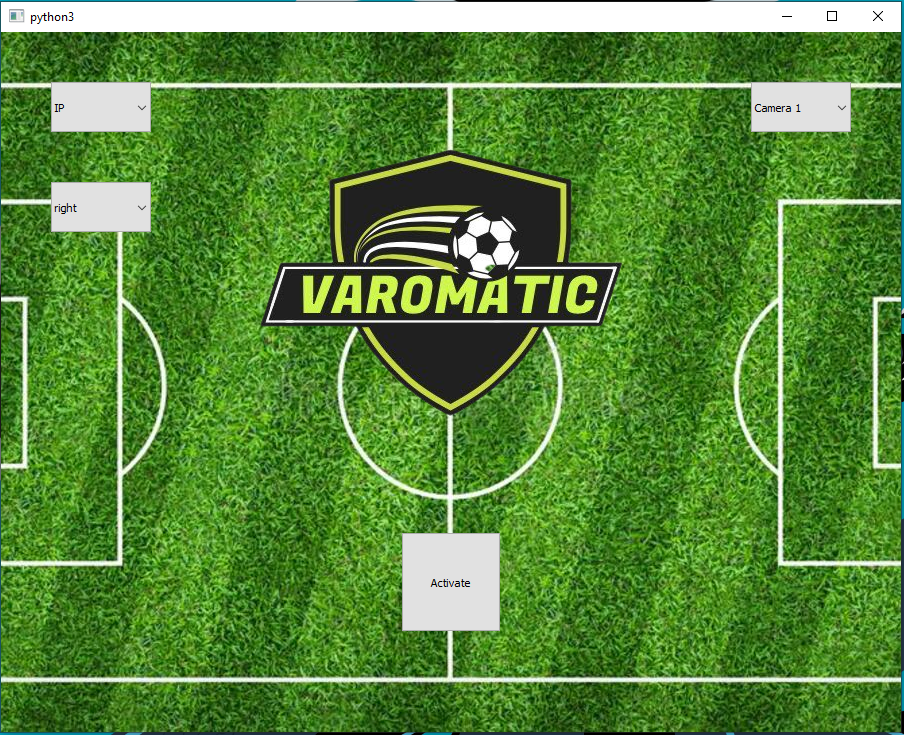
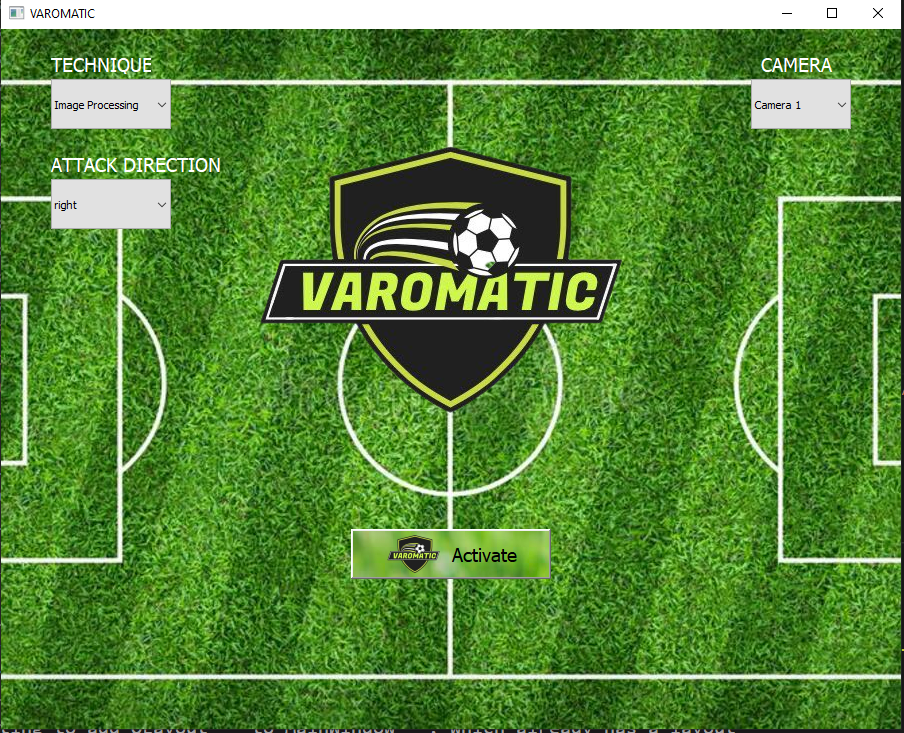
changed background and added labels

diff --git a/app.py b/app.py
@@ -1,5 +1,6 @@
 from PyQt5.QtWidgets import *
-from PyQt5.QtGui import QPixmap
+from PyQt5.QtGui import QPixmap, QIcon
+from PyQt5 import QtCore
 import PyQt5.sip
 import sys
 sys.path.insert(1, 'D:/UNI STUFF/Fourth year comp/sem 2/GGP/VAROMATIC-APP/lib/offside_modules')
@@ -23,27 +24,62 @@ class MainWindow(QMainWindow):
             else:
                return GoalLineProcess('rec')
         
+        self.label_name = QLabel('CAMERA', self)
+        self.label_name.setStyleSheet("""QLabel{
+        color: white;
+        font: 14pt;
+        text-align:center;
+        }""")
+        self.label_name.setFixedSize(100,20)
+        self.label_name.move(760,25)
+
         self.Qcombo = QComboBox(self)
         self.Qcombo.addItem("Camera 1")
         self.Qcombo.addItem("Camera 2")
         self.Qcombo.setFixedSize(100,50)
         self.Qcombo.move(750,50)
 
+        self.label_name = QLabel('TECHNIQUE', self)
+        self.label_name.setStyleSheet("""QLabel{
+        color: white;
+        font: 14pt;
+        text-align:center;
+        }""")
+        self.label_name.setFixedSize(100,20)
+        self.label_name.move(50,25)
+
         self.Qcombo2 = QComboBox(self)
-        self.Qcombo2.addItem("IP")
+        self.Qcombo2.addItem("Image Processing")
         self.Qcombo2.addItem("YOLO")
-        self.Qcombo2.setFixedSize(100,50)
+        self.Qcombo2.setFixedSize(120,50)
         self.Qcombo2.move(50,50)
+
+        self.label_name = QLabel('ATTACK DIRECTION', self)
+        self.label_name.setStyleSheet("""QLabel{
+        color: white;
+        font: 14pt;
+        text-align:center;
+        }""")
+        self.label_name.setFixedSize(200,20)
+        self.label_name.move(50,125)
 
         self.Qcombo3 = QComboBox(self)
         self.Qcombo3.addItem("right")
         self.Qcombo3.addItem("left")
-        self.Qcombo3.setFixedSize(100,50)
+        self.Qcombo3.setFixedSize(120,50)
         self.Qcombo3.move(50,150)
         
         self.pushButton = QPushButton("Activate",self)
-        self.pushButton.setFixedSize(100,100)
-        self.pushButton.move(400,500)
+        self.pushButton.setFixedSize(200,50)
+        self.pushButton.move(350,500)   
+        self.pushButton.clicked.connect(activate)
+        self.pushButton.setIcon(QIcon('assets/logobg.jpg'))
+        self.pushButton.setIconSize(QtCore.QSize(64, 64))
+        self.pushButton.setStyleSheet("""QPushButton{
+        font: 14pt;
+        text-align:center;
+        background-image:url("D:/UNI STUFF/Fourth year comp/sem 2/GGP/VAROMATIC-APP/assets/grass.jpg");
+        }""")
 
         label = QLabel(self)
         pixmap = QPixmap('assets/logobg.jpg')
@@ -51,7 +87,6 @@ class MainWindow(QMainWindow):
         label.setFixedHeight(500)
         label.setFixedWidth(500)
         label.move(235,0)
-        self.pushButton.clicked.connect(activate)
         lay = QHBoxLayout(self)
         lay.addWidget(self.pushButton)
         lay.addWidget(self.pushButton)
@@ -69,6 +104,7 @@ if __name__ == "__main__":
     app = QApplication(sys.argv)
     app.setStyleSheet(stylesheet)     # <---
     window = MainWindow()
+    window.setWindowTitle("VAROMATIC")
     window.resize(900,700)
     window.show()
     sys.exit(app.exec_())
